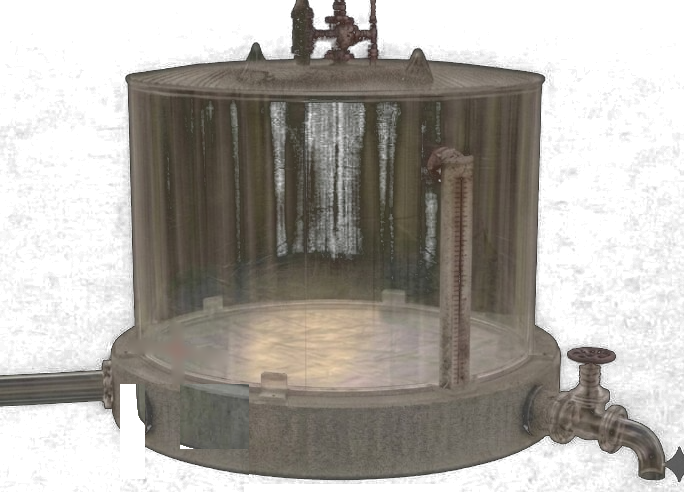
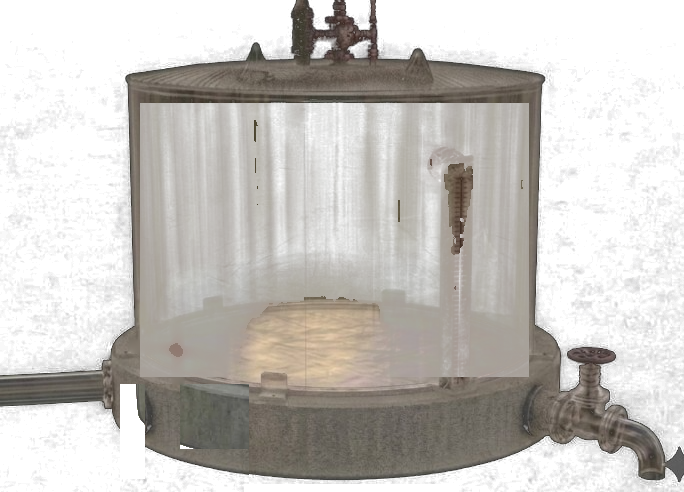
1

Changed region(s): [[0.1842, 0.1829, 0.7982, 0.7927]]

diff --git a/remote-host/digital-remote.css b/remote-host/digital-remote.css
@@ -221,7 +221,20 @@
 .digital-stocc-level-info { display: none; }
 #digital-preview-container.digital-focus-stocc .digital-stocc-level-info { display: flex; }
 #digital-preview-container.digital-focus-stocc .digital-rows--stocc .digital-stocc-value,
-#digital-preview-container.digital-focus-stocc .digital-card--expanded .digital-stocc-value { display: none !important; }
+#digital-preview-container.digital-focus-stocc .digital-card--expanded .digital-stocc-value,
+#digital-preview-container.digital-phone-layout.digital-focus-stocc .digital-stocc-value { display: none !important; }
+/* Nello zoom: sigla del serbatoio al posto della prima misura, sopra il livello in mm */
+.digital-stocc-sigla-under { display: none; }
+#digital-preview-container.digital-focus-stocc .digital-stocc-sigla-under {
+    display: block !important;
+    text-align: center !important;
+    font-weight: 800 !important;
+    font-size: clamp(16px, 1.6vw, 24px) !important;
+    color: #f1f5f9 !important;
+    letter-spacing: 0.05em !important;
+    line-height: 1.2 !important;
+    white-space: nowrap !important;
+}
 
 /* Serbatoio 3D fotorealistico: PNG con trasparenza reale (sfondo rimosso),
    acqua semi-trasparente dentro il vetro, sigla incisa nel cemento (bassorilievo). */

diff --git a/remote-host/index.html b/remote-host/index.html
@@ -7,7 +7,7 @@
     var SK = "servicehub_remote_share_k";
     var SA = "servicehub_remote_app_id";
     var FB_ORIGIN = "https://servicehub-18309.web.app";
-    window.SVCREMOTE_BUILD = "2026.06.10-v85";
+    window.SVCREMOTE_BUILD = "2026.06.10-v86";
 
     /** Vecchi link su GitHub → stesso remoto su Firebase. */
     (function redirectGithubToFirebase() {
@@ -225,7 +225,7 @@
   <link rel="manifest" href="manifest.json?v=fb5" />
   <link rel="apple-touch-icon" href="sh-remote-touch.png?v=fb3" />
   <link rel="icon" type="image/png" sizes="32x32" href="sh-remote-favicon.png?v=fb3" />
-  <link rel="stylesheet" href="digital-remote.css?v=dig72" />
+  <link rel="stylesheet" href="digital-remote.css?v=dig73" />
   <style>
     html, body { margin: 0; height: 100%; font-family: system-ui, sans-serif; overflow: hidden; overflow-x: hidden !important; touch-action: pan-y; overscroll-behavior-x: none; }
     #digital-preview-container {
@@ -2012,7 +2012,7 @@
           '<text font-family="Arial Narrow,Helvetica Neue,Arial,sans-serif" font-weight="800" font-size="' + siglaFs + '" letter-spacing="2.5" fill="rgba(50,50,54,0.96)"><textPath href="#' + sigId + '" startOffset="50%" text-anchor="middle">' + esc(siglaTxt) + "</textPath></text>" +
           "</svg>"
         : "";
-      var imgSrc = acc && drain ? "tank-3d-acc-dren.png?v=1" : acc ? "tank-3d-acc.png?v=1" : drain ? "tank-3d-drain.png?v=1" : "tank-3d.png?v=3";
+      var imgSrc = acc && drain ? "tank-3d-acc-dren.png?v=2" : acc ? "tank-3d-acc.png?v=2" : drain ? "tank-3d-drain.png?v=2" : "tank-3d.png?v=3";
       return (
         '<div class="digital-tank-gauge digital-tank3d' + (drain ? " digital-tank3d--drain" : "") + (acc ? " digital-tank3d--acc" : "") + '">' +
         '<img class="digital-tank3d-img" src="' + imgSrc + '" alt="" draggable="false"/>' +
@@ -2180,6 +2180,7 @@
         const pct = getStoccaggioTankFillPct(r.tankDbKey, r.levelMm, r.fillPct);
         const gauge = buildDigitalTankGaugeSVG(pct, r.label || "");
         const levelInfo = buildStoccLevelInfoHTML(r);
+        var siglaUnder = String(r.label || "").replace(/<[^>]+>/g, " ").replace(/\s+/g, " ").trim();
         html +=
           '<div class="digital-stocc-row digital-row">' +
           '<span class="digital-stocc-sigla digital-row-label">' +
@@ -2190,6 +2191,7 @@
           '<span class="digital-stocc-value digital-row-value">' +
           val +
           "</span>" +
+          '<div class="digital-stocc-sigla-under">' + siglaUnder + "</div>" +
           levelInfo +
           "</div></div>";
       });